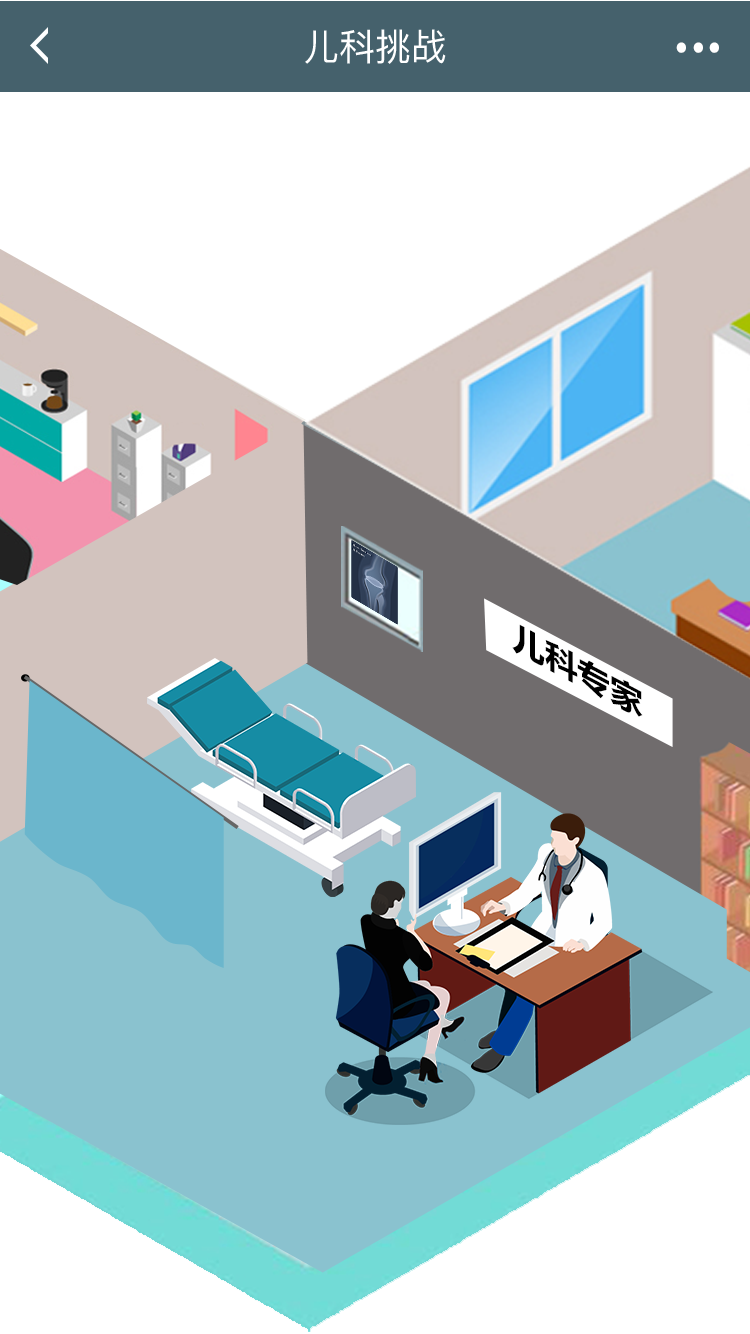
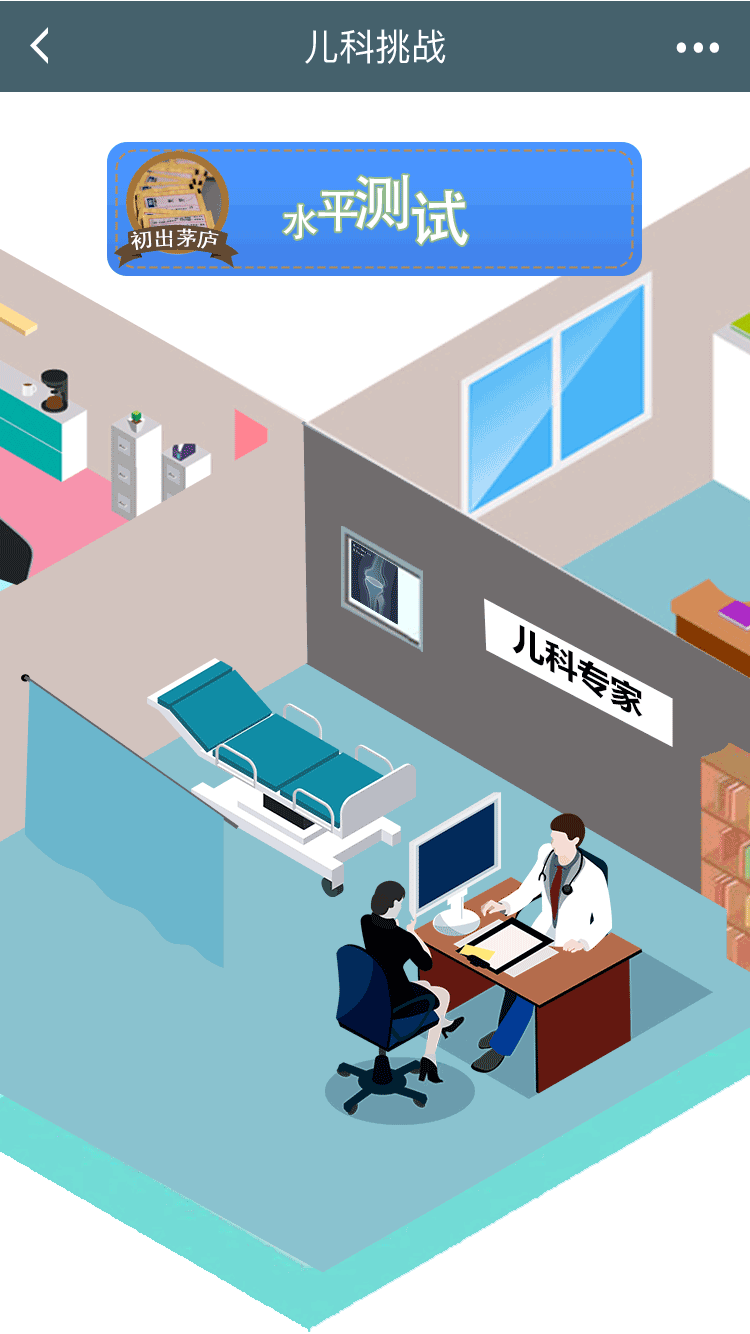
'样式问题修复'

diff --git a/src/components/Conversation.vue b/src/components/Conversation.vue
@@ -1,13 +1,14 @@
 <template>
   <div class="converCon">
+    <div @click="goHome" class="return1"></div>
     <div class="conv" v-if="!selected">
       <img class="daibiao" v-if="!id" src="../../image/hushi.png">
       <img class="daibiao" v-if="id==='erke'" src="../../image/erkenanZR.png">
       <div class="con1">{{docCon}}</div>
     </div>
     <div class="conv" v-if="!selected">
-      <img class="doctor" src="../../image/daibiao.png">
-      <div class="con2">{{daibiaoCon}}</div>
+      <img class="daibiao" src="../../image/daibiao.png">
+      <div class="con1">{{daibiaoCon}}</div>
     </div>
     <div v-if="selected" class="selectBox">
       <div class="img">
@@ -19,10 +20,10 @@
         <div class="selectedQes">{{docQes}}</div>
         <div class="selectedAns">
           <input type="radio" id="contactChoice1" name="contact" value="planA" v-model="picked">
-          <label for="contactChoice1">{{data[`qAnd${index+1}`].planA[0]}}</label>
+          <label for="contactChoice1">A、{{data[`qAnd${index+1}`].planA[0]}}</label>
           <br>
           <input type="radio" id="contactChoice2" name="contact" value="planB" v-model="picked">
-          <label for="contactChoice2">{{data[`qAnd${index+1}`].planB[0]}}</label>
+          <label for="contactChoice2">B、{{data[`qAnd${index+1}`].planB[0]}}</label>
         </div>
       </div>
 
@@ -289,6 +290,13 @@ export default {
       
         this.selected = true;
       }
+    },
+    goHome(){
+      if(this.$route.path === '/lesson1'|| this.$route.path === '/department/erke/common/step1'){
+        this.$router.push({path: '/abilityselection/erke/step1'});
+      }else{
+        this.$router.push({path: '/abilityselection/erke/step2'});
+      }
     }
   },
   conputed: {
@@ -345,23 +353,45 @@ export default {
   background-size: 100%;
   margin-left: 70%;
 }
-.con1 {
+.con1,.con2 {
   width: 60%;
-  height: 50%;
+  height: 53%;
   position: absolute;
-  left: 30%;
   top: 20%;
   word-wrap: break-word;
   overflow: auto;
+  font-size: 18px;
+}
+.con1::-webkit-scrollbar-track-piece,.con2::-webkit-scrollbar-track-piece,.qAndA::-webkit-scrollbar-track-piece {
+  background-color: rgba(0, 0, 0, 0);
+  border-left: 1px solid rgba(0, 0, 0, 0);
+}
+.con1::-webkit-scrollbar,.con2::-webkit-scrollbar,.qAndA::-webkit-scrollbar {
+  width: 5px;
+  height: 13px;
+  -webkit-border-radius: 5px;
+  -moz-border-radius: 5px;
+  border-radius: 5px;
+}
+.con1::-webkit-scrollbar-thumb,.con2::-webkit-scrollbar-thumb,.qAndA::-webkit-scrollbar-thumb {
+  background-color: rgba(0, 0, 0, 0.5);
+  background-clip: padding-box;
+  -webkit-border-radius: 5px;
+  -moz-border-radius: 5px;
+  border-radius: 5px;
+  min-height: 28px;
+}
+.con1::-webkit-scrollbar-thumb:hover,.con2::-webkit-scrollbar-thumb:hover,.qAndA::-webkit-scrollbar-thumb:hover {
+  background-color: rgba(0, 0, 0, 0.5);
+  -webkit-border-radius: 5px;
+  -moz-border-radius: 5px;
+  border-radius: 5px;
+}
+.con1{
+  left: 30%;
 }
 .con2 {
-  width: 60%;
-  height: 50%;
-  position: absolute;
   right: 30%;
-  top: 20%;
-  word-wrap: break-word;
-  overflow: auto;
 }
 .button {
   width: 80%;
@@ -373,15 +403,16 @@ export default {
   border-radius: 10px;
 }
 .selectBox {
-  width: 60%;
-  height: 50%;
-  padding: 10% 5%;
+  width: 70%;
+  height: 52%;
+  padding: 5%;
   background-color: white;
 }
 .qAndA {
   height: 62%;
-  overflow-y: scroll;
+  overflow-y: auto;
   margin-bottom: 5%;
+  font-size: 19px;
 }
 .img {
   height: auto;
@@ -416,6 +447,7 @@ export default {
   display: flex;
   justify-content: center;
   align-items: center;
+  font-size: 20px;
 }
 .nextButton {
   position: absolute;
@@ -427,9 +459,18 @@ export default {
   padding: 2% 4%;
   border-radius: 5%;
   outline: none;
+  font-size: 20px;
 }
 .selectedAns select {
   width: 100%;
+}
+.return1{
+  position: absolute;
+  left: 0;
+  top: 0;
+  width: 50px;
+  height: 50px;
+  z-index: 2;
 }
 </style>
 

diff --git a/src/components/AbilitySelection.vue b/src/components/AbilitySelection.vue
@@ -2,12 +2,18 @@
   <div id="ability" :style="{width:curWidth+'px',height:curHeight+'px'}">
     <img src="../../image/erketigaoBJ.jpg" class="fullPage"/>
     <div @click="goHome" class="return"></div>
-    <div class="common1" @click="goTest" :style="{width:curWidth*0.8 +'px',height:curWidth*0.2 + 'px'}"></div>
+    <div class="common1" @click="goTest">
+      <img src="../../image/shuipingCS.gif" />
+    </div>
 
     <router-link :to="`/department/${depart.id}/enhance/${stp}`" v-if="stp==='step2'">
-      <div class="enhance1" :style="{width:curWidth*0.8 +'px',height:curWidth*0.2 + 'px'}"></div>
+      <div class="enhance1">
+        <img src="../../image/tigaoXL.gif"/>
+      </div>
     </router-link>
-    <div class="enhance1" :style="{width:curWidth*0.8 +'px',height:curWidth*0.2 + 'px'}" v-if="stp==='step1'"></div>
+    <div class="enhance1" v-if="stp==='step1'">
+      <img class="gif" src="../../image/tigaoXL.png"/>
+    </div>
   </div>
 </template>
 <script>
@@ -72,15 +78,23 @@ export default {
     height: 50px;
 }
 .common1 {
-  padding-top:10%;
+  width: 100%;
   margin-top: 58%;
-  background: url("../../image/shuipingCS.gif") no-repeat center;
-  background-size: 100%;
+}
+.common1 img{
+  width: 80%;
+  margin: 0 10%;
 }
 .enhance1 {
-  margin-top: 5%;
-  background: url("../../image/tigaoXL.gif") no-repeat center;
-  background-size: 100%;
+  width: 100%;
+  margin: 0 10%;
+}
+.enhance1 img{
+  width: 80%;
+  
+}
+.enhance1 img.gif{
+  margin: 0 10%;
 }
 </style>
 

diff --git a/src/components/Home.vue b/src/components/Home.vue
@@ -7,7 +7,7 @@
         <img class="avatar" :src="require(`../../image/${isLogin?'avatar-icon':'btn_home'}.png`)">
       </div>
       <div class="swiperBox">
-        <swiper :options="swiperOption" autoplay="true" class="wiper">
+        <swiper :options="swiperOption" class="wiper">
           <swiper-slide v-for="(slide, index) in swiperSlides" :key="index">
             <img :src="require(`../../image/Carousel${index+1}.png`)" class="tabImage">
           </swiper-slide>
@@ -57,7 +57,8 @@ export default {
       swiperOption: {
         pagination: {
           el: ".swiper-pagination"
-        }
+        },
+        autoplay: true,
       },
       swiperSlides: [1, 2, 3, 4, 5]
     };
@@ -122,7 +123,7 @@ export default {
   font-size: 20px;
 }
 .swiperBox {
-  width: 79%;
+  width: 100%;
   margin: 4% 0;
   display: flex;
   justify-content: center;
@@ -150,6 +151,7 @@ export default {
   flex-direction: column;
   justify-content: center;
   align-items: center;
+  font-size: 18px;
 }
 .iconBox img {
   width: 60px;
@@ -162,6 +164,7 @@ export default {
   padding-left: 10px;
   align-self: flex-start;
   position: relative;
+  font-size: 25px;
 }
 .abilitys::before {
   position: absolute;
@@ -169,7 +172,7 @@ export default {
   content: "";
   display: block;
   width: 5px;
-  height: 16px;
+  height: 32px;
   border-radius: 5px;
   background-color: white;
 }

diff --git a/src/components/Login.vue b/src/components/Login.vue
@@ -112,6 +112,7 @@ export default {
   outline: none;
   line-height: 20px;
   padding: 0 5%;
+  font-size: 18px;
 }
 .loginBox img {
   width: 18px;
@@ -133,6 +134,7 @@ export default {
   color: white;
   padding: 1% 3%;
   border-radius: 20px;
+  font-size: 18px;
 }
 .loginButton {
   margin: 0 10%;

diff --git a/src/components/Department.vue b/src/components/Department.vue
@@ -80,7 +80,7 @@ export default {
   left: 20%;
   width: 35%;
   height: 40%;
-  background: url("../../image/jzdh2.gif") no-repeat center;
+  background: url("../../image/jzdh-2.gif") no-repeat center;
   background-size: 40%;
 }
 
